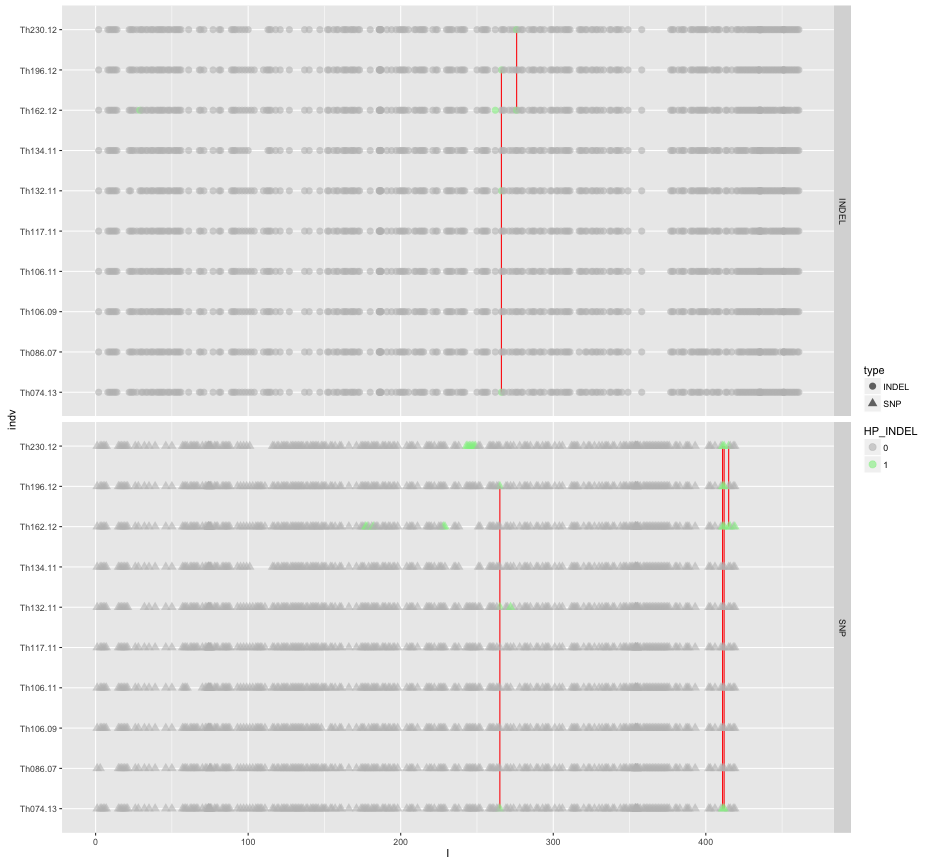
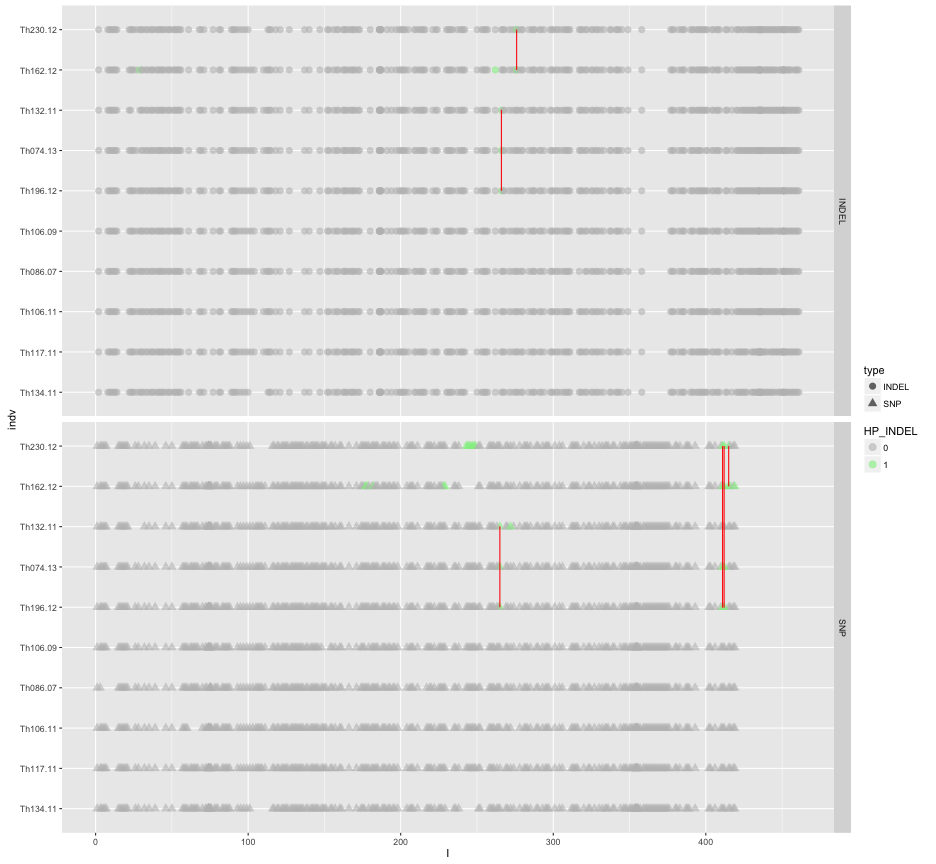
adding network plots with homoplasies

diff --git a/reports/160513_thies_homoplasies_nets/plotHaplotypes.md b/reports/160513_thies_homoplasies_nets/plotHaplotypes.md
@@ -219,8 +219,8 @@ ggplot(genotabNS,aes(x=pos,y=indv,colour=HP_INDEL,group=haplo,shape=type)) + geo
 
 #SNP net homoplasies
 genotabNS$indv <- factor(genotabNS$indv,levels = SNPnetworkorder,ordered=T)
-ggplot(genotabNS,aes(x=I,y=indv,colour=HP_SNP,group=pos,shape=type)) + geom_point(alpha=0.6,size=3) + geom_line(data=subset(genotabNS,HP_SNP == 1),colour="red") + 
-  facet_grid(type ~ .)  +colsc
+ggplot(genotabNS,aes(x=I,y=indv,colour=HP_SNP,group=pos,shape=type)) + geom_point(alpha=0.6,size=3) + 
+  geom_line(data=subset(genotabNS,HP_SNP == 1),colour="red") + facet_grid(type ~ .)  +colsc
 ```
 
 ![plot of chunk unnamed-chunk-6](figure/unnamed-chunk-6-1.png)
@@ -228,8 +228,8 @@ ggplot(genotabNS,aes(x=I,y=indv,colour=HP_SNP,group=pos,shape=type)) + geom_poin
 ```r
 #INDEL net homoplasies
 genotabNS$indv <- factor(genotabNS$indv,levels = INDELnetworkorder,ordered=T)
-ggplot(genotabNS,aes(x=I,y=indv,colour=HP_INDEL,group=pos,shape=type)) + geom_line(data=subset(genotabNS,HP_INDEL == 1),colour="red") + 
-  geom_point(alpha=0.6,size=3) + facet_grid(type ~ .)  +colsc
+ggplot(genotabNS,aes(x=I,y=indv,colour=HP_INDEL,group=pos,shape=type)) + geom_point(alpha=0.6,size=3) + 
+  geom_line(data=subset(genotabNS,HP_INDEL == 1),colour="red") + facet_grid(type ~ .)  +colsc
 ```
 
 ![plot of chunk unnamed-chunk-6](figure/unnamed-chunk-6-2.png)
